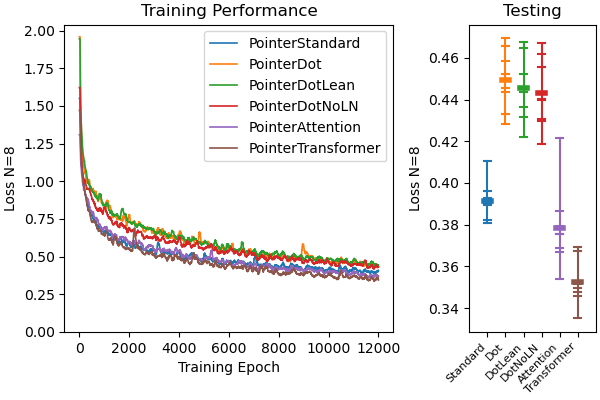
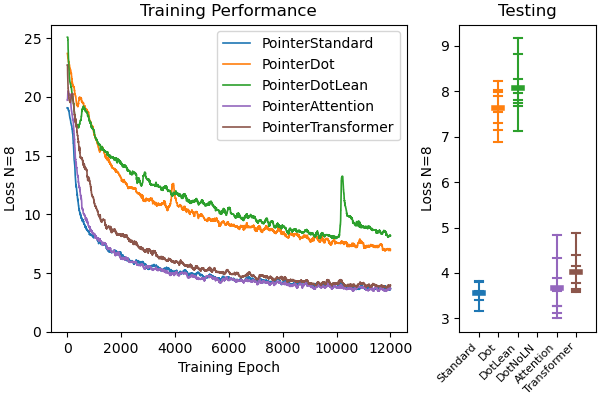
Updated TSP SL experiments and figures

diff --git a/experiments/ptrArchComp_TSP_SL.py b/experiments/ptrArchComp_TSP_SL.py
@@ -216,10 +216,13 @@ def trainTestModel():
 def plotResults(results, args):
     numRuns = args.num_runs
     cmap = mpl.colormaps['tab10']
+
+    idx_ignore = {val: idx for idx, val in enumerate(POINTER_METHODS)}['PointerDotNoLN']
     
     # make plot of loss trajectory
     fig, ax = plt.subplots(1,2,figsize=(6,4), width_ratios=[2.6,1],layout='constrained')
     for idx, name in enumerate(POINTER_METHODS):
+        if idx == idx_ignore: continue # dot noLN has a loss blow up
         cdata = sp.ndimage.median_filter(torch.mean(results['trainLoss'][:,idx], dim=1), size=(100,))
         ax[0].plot(range(args.train_epochs), cdata, color=cmap(idx), lw=1.2, label=name)
     ax[0].set_xlabel('Training Epoch')
@@ -232,6 +235,7 @@ def plotResults(results, args):
     xOffset = [-0.2, 0.2]
     get_x = lambda idx: [xOffset[0]+idx, xOffset[1]+idx]
     for idx, name in enumerate(POINTER_METHODS):
+        if idx == idx_ignore: continue # dot noLN has a loss blow up
         mnTestReward = torch.mean(results['testLoss'][:,idx], dim=0)
         ax[1].plot(get_x(idx), [mnTestReward.mean(), mnTestReward.mean()], color=cmap(idx), lw=4, label=name)
         for mtr in mnTestReward:
@@ -252,21 +256,23 @@ def plotResults(results, args):
     # make plot of tour length for valid tours
     fig, ax = plt.subplots(1,2,figsize=(6,4), width_ratios=[2.6,1],layout='constrained')
     for idx, name in enumerate(POINTER_METHODS):
+        if idx == idx_ignore: continue # dot noLN has a loss blow up
         cdata = torch.nanmean(results['trainTourLength'][:,idx], dim=1)
-        #idx_nan = torch.isnan(cdata)
-        #cdata.masked_fill_(idx_nan, 0)
-        #cdata = sp.signal.savgol_filter(cdata, , 1)
-        #cdata[idx_nan] = torch.nan
+        idx_nan = torch.isnan(cdata)
+        cdata.masked_fill_(idx_nan, 0)
+        cdata = sp.signal.savgol_filter(cdata, 50, 1)
+        cdata[idx_nan] = torch.nan
         ax[0].plot(range(args.train_epochs), cdata, color=cmap(idx), lw=1.2, label=name)
     ax[0].set_xlabel('Training Epoch')
     ax[0].set_ylabel(f'Tour Length N={numRuns}')
     ax[0].set_title('Training - TourLength (Valid)')
     ax[0].legend(loc='best')
-    ax[0].set_ylim(2.85, 2.975)
+    # ax[0].set_ylim(2.85, 2.975)
     
     xOffset = [-0.2, 0.2]
     get_x = lambda idx: [xOffset[0]+idx, xOffset[1]+idx]
     for idx, name in enumerate(POINTER_METHODS):
+        if idx == idx_ignore: continue # dot noLN has a loss blow up
         mnTestReward = torch.nanmean(results['testTourLength'][:,idx], dim=0)
         ax[1].plot(get_x(idx), [mnTestReward.mean(), mnTestReward.mean()], color=cmap(idx), lw=4, label=name)
         for mtr in mnTestReward:
@@ -288,16 +294,18 @@ def plotResults(results, args):
     numPos = results['testMaxScore'].size(1)
     fig, ax = plt.subplots(1, 2, figsize=(6,4), width_ratios=[2.6,1], layout='constrained')
     for idx, name in enumerate(POINTER_METHODS):
+        if idx == idx_ignore: continue # dot noLN has a loss blow up
         ax[0].plot(range(numPos), torch.mean(torch.exp(results['testMaxScore'][:,:,idx]), dim=(0,2)), color=cmap(idx), lw=1, marker='o', label=name)
     ax[0].set_xlabel('Output Position')
     ax[0].set_ylabel('Mean Score')
     ax[0].set_title('Position-Dependent Confidence')
     ax[0].legend(loc='best', fontsize=8)
-    ax[0].set_ylim(0.65, 1)
+    ax[0].set_ylim(0.2, 1)
     
     xOffset = [-0.2, 0.2]
     get_x = lambda idx: [xOffset[0]+idx, xOffset[1]+idx]
     for idx, name in enumerate(POINTER_METHODS):
+        if idx == idx_ignore: continue # dot noLN has a loss blow up
         mnScoreByPosition = torch.mean(torch.exp(results['testMaxScore'][:,:,idx]), dim=(0,1))
         ax[1].plot(get_x(idx), [mnScoreByPosition.mean(), mnScoreByPosition.mean()], color=cmap(idx), lw=4, label=name)
         for msbp in mnScoreByPosition:
@@ -307,7 +315,7 @@ def plotResults(results, args):
     ax[1].set_xticklabels([pmethod[7:] for pmethod in POINTER_METHODS], rotation=45, ha='right', fontsize=8)
     ax[1].set_title('Average')
     ax[1].set_xlim(-1, len(POINTER_METHODS))
-    ax[1].set_ylim(0.65, 1)
+    ax[1].set_ylim(0.2, 1)
 
     if not(args.nosave):
         plt.savefig(str(figsPath/getFileName(extra='confidence')))
